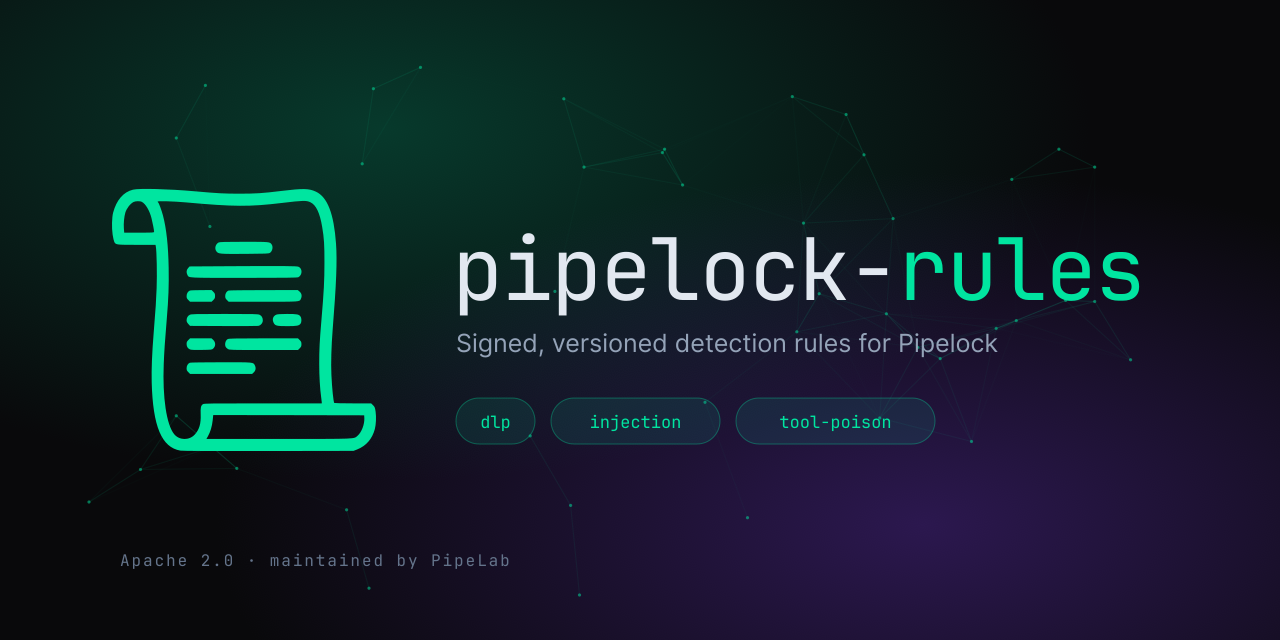
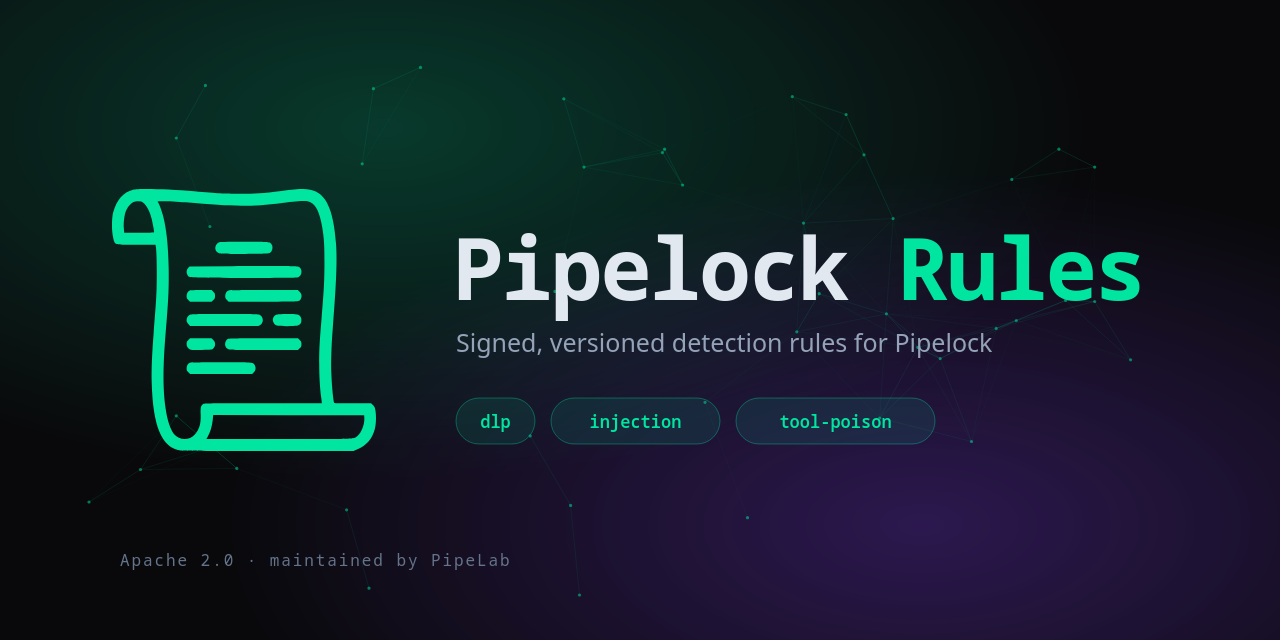
feat(brand): align Pipelock Rules identity assets

diff --git a/scripts/render_brand.py b/scripts/render_brand.py
@@ -44,8 +44,19 @@ MONO = ("'JetBrains Mono', 'JetBrainsMono Nerd Font', ui-monospace, "
         "SFMono-Regular, Menlo, monospace")
 SANS = "Inter, system-ui, -apple-system, 'Segoe UI', Roboto, Helvetica, Arial, sans-serif"
 
-WORDMARK = "pipelock-rules"
+# The display name. The repository slug stays `pipelock-rules` and is used
+# for URLs, clone commands, and artifact names; it is not a wordmark.
+WORDMARK = "Pipelock Rules"
+WORDMARK_LEAD = "Pipelock "
+WORDMARK_ACCENT = "Rules"
 TAGLINE = "Signed, versioned detection rules for Pipelock"
+
+# Family social-card footer. Same string, type, and position as Agent Egress
+# Bench, so the two generated cards share one attribution rather than two.
+CARD_FOOTER = "Apache 2.0  ·  maintained by PipeLab"
+CARD_FOOTER_X = 120
+CARD_FOOTER_Y = 566
+CARD_FOOTER_SIZE = 16
 
 
 def _fail(message: str):
@@ -164,6 +175,15 @@ def favicon() -> str:
     return "\n".join(out) + "\n"
 
 
+# Type metrics for the monospace wordmark. Every glyph in a monospace face
+# advances 0.6em, so a wordmark's width is exact arithmetic. ASCENDER and
+# DESCENDER describe the visual band used to centre it against the mark.
+MONO_ADVANCE = 0.6
+TRACKING = 0.02
+ASCENDER = 0.75
+DESCENDER = 0.21
+
+
 def lockup() -> str:
     """Mark and wordmark on ONE line, for a header or a slide.
 
@@ -171,15 +191,29 @@ def lockup() -> str:
     reads off-balance however it is aligned, which is the exact defect the
     sibling benchmark repository's header had.
     """
-    w, h = 620, 116
+    margin, mark_size, gap, size = 20, 96, 24, 46
+    text_x = margin + mark_size + gap
+    # Monospace: every glyph advances the same width, so the wordmark's extent
+    # is arithmetic rather than an estimate. MONO_ADVANCE and TRACKING are named
+    # so a font or tracking change moves the canvas with them.
+    text_w = round(len(WORDMARK) * size * (MONO_ADVANCE - TRACKING), 2)
+    w = round(text_x + text_w + margin, 2)
+    h = margin * 2 + mark_size - 24
+
+    # Centre the wordmark's ink on the mark's centre. A baseline sits below the
+    # letters, so aligning baselines would hang the word low; this offsets by
+    # half the visual band (ascender to descender) instead.
+    mark_centre = 10 + mark_size / 2
+    baseline = round(mark_centre - (ASCENDER + DESCENDER) * size / 2 + ASCENDER * size, 2)
+
     out = _open(w, h, f"{WORDMARK} logo lockup")
-    out.append(placed_mark(20, 10, 96))
+    out.append(placed_mark(margin, 10, mark_size))
     # Two-tone wordmark. The accent lands on the word that distinguishes
     # this project from its parent, matching 'Agent Egress Bench' next door.
-    out.append(f'  <text x="140" y="74" font-family="{MONO}" font-size="46" '
-               f'font-weight="700" letter-spacing="-0.02em" xml:space="preserve">'
-               f'<tspan fill="{TEXT}">pipelock-</tspan>'
-               f'<tspan fill="{ACCENT}">rules</tspan></text>')
+    out.append(f'  <text x="{text_x}" y="{baseline}" font-family="{MONO}" font-size="{size}" '
+               f'font-weight="700" letter-spacing="{-TRACKING}em" xml:space="preserve">'
+               f'<tspan fill="{TEXT}">{WORDMARK_LEAD}</tspan>'
+               f'<tspan fill="{ACCENT}">{WORDMARK_ACCENT}</tspan></text>')
     # No tagline. A lockup is a mark and a wordmark; a page that uses it as a
     # header states the tagline in text directly beneath, and a lockup carrying
     # its own copy made the header say it twice.
@@ -206,8 +240,8 @@ def lockup_stacked() -> str:
     out.append(f'  <text x="{w / 2}" y="222" font-family="{MONO}" font-size="42" '
                f'font-weight="700" letter-spacing="-0.02em" text-anchor="middle" '
                f'xml:space="preserve">'
-               f'<tspan fill="{TEXT}">pipelock-</tspan>'
-               f'<tspan fill="{ACCENT}">rules</tspan></text>')
+               f'<tspan fill="{TEXT}">{WORDMARK_LEAD}</tspan>'
+               f'<tspan fill="{ACCENT}">{WORDMARK_ACCENT}</tspan></text>')
     out.append("</svg>")
     return "\n".join(out) + "\n"
 
@@ -252,11 +286,11 @@ def social_preview() -> str:
     # 86 the name carries the card the way it carries the lockup.
     #
     # Accent lands on the word that distinguishes THIS project, which is the
-    # rule the sibling repositories follow: "Agent Egress Bench", "pipelock-rules".
+    # rule the sibling repositories follow: "Agent Egress Bench", "Pipelock Rules".
     out.append(f'  <text x="452" y="300" font-family="{MONO}" font-size="86" '
                f'font-weight="700" letter-spacing="-0.025em" xml:space="preserve">'
-               f'<tspan fill="{TEXT}">pipelock-</tspan>'
-               f'<tspan fill="{ACCENT}">rules</tspan></text>')
+               f'<tspan fill="{TEXT}">{WORDMARK_LEAD}</tspan>'
+               f'<tspan fill="{ACCENT}">{WORDMARK_ACCENT}</tspan></text>')
     out.append(_text(456, 352, TAGLINE, fill=MUTED, size=25))
 
     chip_x = 456
@@ -269,8 +303,8 @@ def social_preview() -> str:
                          family=MONO, weight=600, anchor="middle"))
         chip_x += width + 16
 
-    out.append(_text(120, 566, "Apache 2.0  ·  maintained by PipeLab", fill=DIM,
-                     size=16, family=MONO, spacing="0.12em"))
+    out.append(_text(CARD_FOOTER_X, CARD_FOOTER_Y, CARD_FOOTER, fill=DIM,
+                     size=CARD_FOOTER_SIZE, family=MONO, spacing="0.12em"))
     out.append("</svg>")
     return "\n".join(out) + "\n"
 
@@ -382,6 +416,15 @@ def brand_problems() -> list:
     for referenced in sorted(set(re.findall(r"actions/workflows/([\w.-]+\.yaml)", readme))):
         if not (workflows / referenced).is_file():
             problems.append(f"README: badges {referenced}, which is not in .github/workflows/")
+
+    # The family footer is a contract with the sibling card, not decoration.
+    card = social_preview()
+    if CARD_FOOTER not in card:
+        problems.append("social-preview: missing the family footer line")
+    if f'x="{CARD_FOOTER_X}"' not in card or f'y="{CARD_FOOTER_Y}"' not in card:
+        problems.append(
+            f"social-preview: family footer is not at {CARD_FOOTER_X},{CARD_FOOTER_Y}"
+        )
     return problems
 
 

diff --git a/README.md b/README.md
@@ -1,6 +1,6 @@
-<p align="center">
-  <img src="assets/pipelock-rules-lockup.svg" alt="pipelock-rules" width="420">
-</p>
+<h1 align="center">
+  <img src="assets/pipelock-rules-lockup.svg" alt="Pipelock Rules" width="420">
+</h1>
 
 <p align="center">
   Signed, versioned detection rules for <a href="https://github.com/luckyPipewrench/pipelock">Pipelock</a>, the open-source agent firewall.
@@ -9,6 +9,7 @@
 <p align="center">
   <a href="https://github.com/luckyPipewrench/pipelock-rules/actions/workflows/ci.yaml"><img src="https://github.com/luckyPipewrench/pipelock-rules/actions/workflows/ci.yaml/badge.svg" alt="CI"></a>
   <a href="https://github.com/luckyPipewrench/pipelock-rules/actions/workflows/codeql.yaml"><img src="https://github.com/luckyPipewrench/pipelock-rules/actions/workflows/codeql.yaml/badge.svg" alt="CodeQL"></a>
+  <a href="https://github.com/luckyPipewrench/pipelock-rules/actions/workflows/pipelock.yaml"><img src="https://github.com/luckyPipewrench/pipelock-rules/actions/workflows/pipelock.yaml/badge.svg" alt="Pipelock Security Scan"></a>
   <a href="https://scorecard.dev/viewer/?uri=github.com/luckyPipewrench/pipelock-rules"><img src="https://api.scorecard.dev/projects/github.com/luckyPipewrench/pipelock-rules/badge" alt="OpenSSF Scorecard"></a>
   <a href="https://github.com/luckyPipewrench/pipelock"><img src="https://img.shields.io/badge/tested_with_Pipelock-v3.4.0-00e5a0?labelColor=0e0e11" alt="Tested with Pipelock v3.4.0"></a>
   <a href="LICENSE"><img src="https://img.shields.io/badge/License-Apache_2.0-00e5a0?labelColor=0e0e11" alt="License: Apache 2.0"></a>
